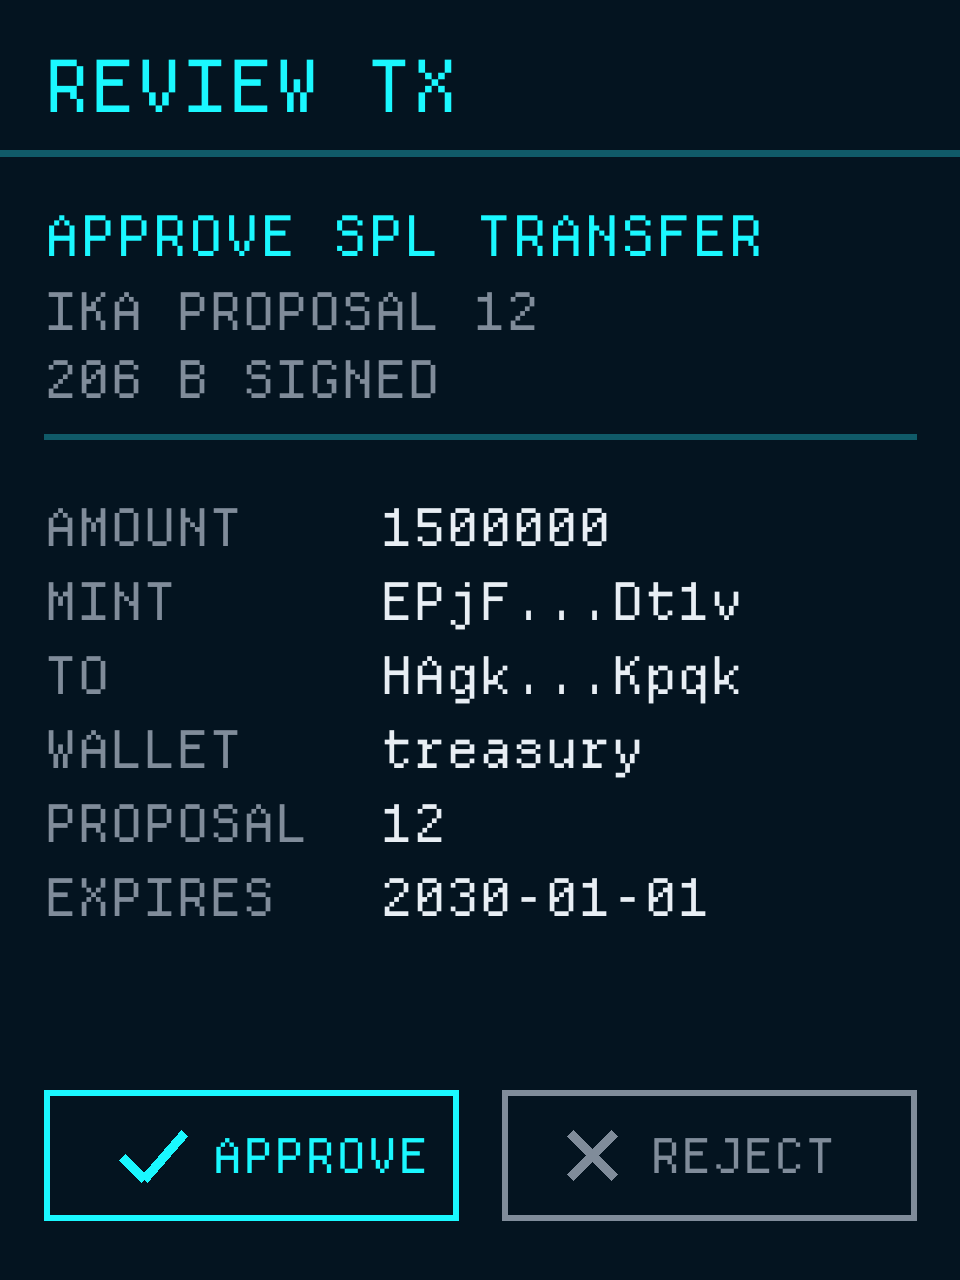
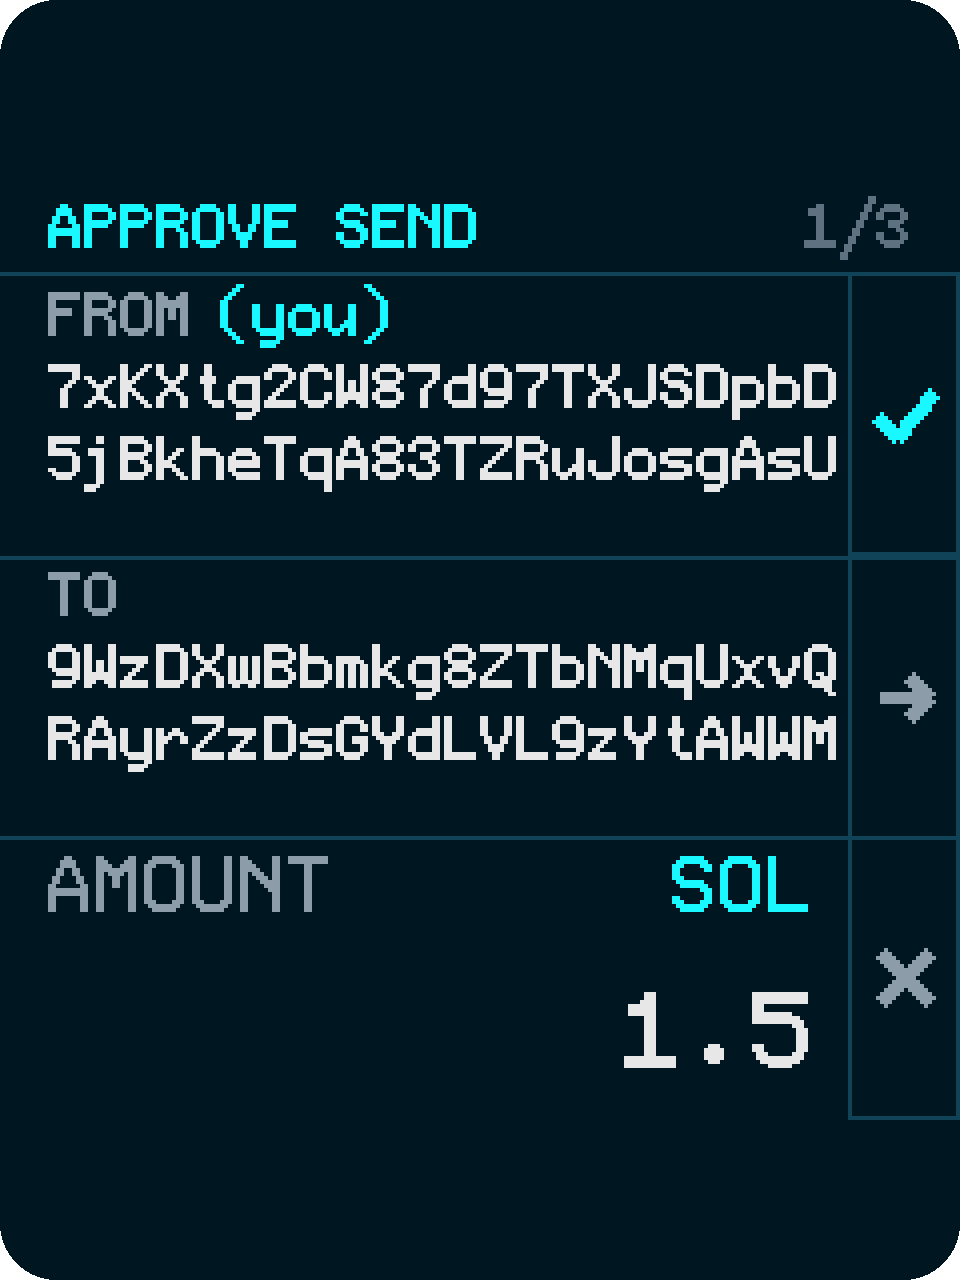
feat(site): pixel-faithful firmware review screen + rounded panel corners
Replace the invented ESP32 review mock with a recreation of the real
zoned APPROVE SEND screen, built from the firmware source of truth:
Theme::faraday_240 colors (#001721/#E7E7E7/#8C9CA8/#5E7180/#1AF8FF/
#114358), the exact u8g2 ProFont 17/22/29 bitmaps rendered at native
240x240 and 4x nearest-neighbor upscaled, the 29px header with page
counter, three body zones (FROM with '(you)' chip, TO, right-aligned
AMOUNT + SOL), and the 3-cell K1/K2/K3 edge-hint gutter with the
firmware's own icon geometry. Texture carries rounded-corner alpha
(material transparent) so the panel matches the case's soft corners.

Claude-Session: https://claude.ai/code/session_01BGhdTL6akK9EgTZTt9R31L

diff --git a/site/components/landing/device-3d.tsx b/site/components/landing/device-3d.tsx
@@ -219,7 +219,8 @@ function Esp32Assembly({ open }: { open: boolean }) {
         <Esp32Board position={[fit.cx, fit.cy, fit.cz + 2.5]} />
         <mesh position={[fit.cx, fit.cy, fit.screenZ]}>
           <planeGeometry args={[fit.screenW, fit.screenH]} />
-          <meshBasicMaterial map={bootScreen} toneMapped={false} />
+          {/* texture carries rounded-corner alpha so the panel matches the case */}
+          <meshBasicMaterial map={bootScreen} toneMapped={false} transparent />
         </mesh>
       </group>
       </group>
